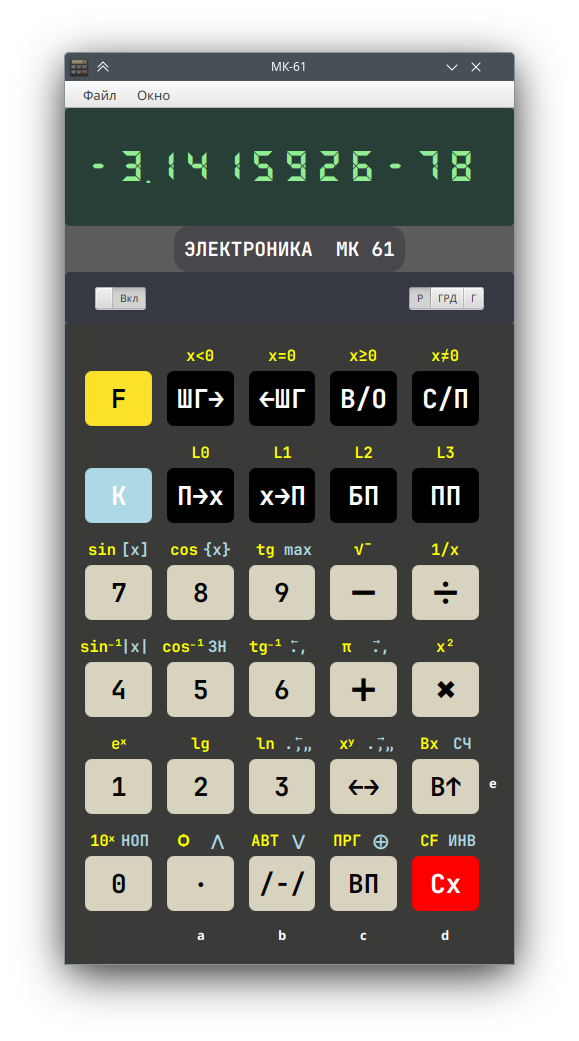
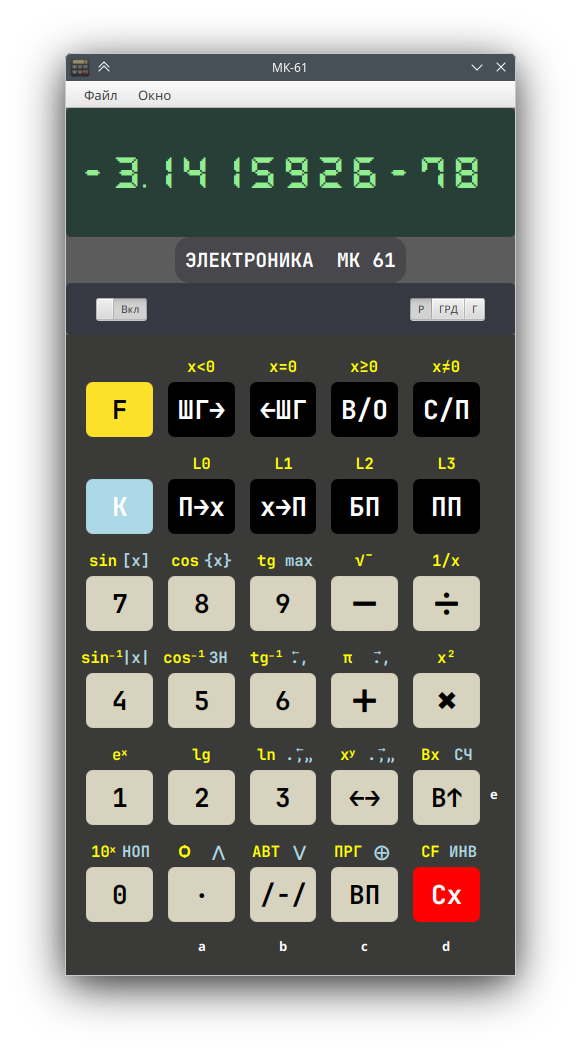
МК-61 25.12.1
* Fonts update

diff --git a/src/main/resources/main.css b/src/main/resources/main.css
@@ -86,16 +86,16 @@
 
 .lcd {
     -fx-font-weight: normal;
-    -fx-font-size: 30px;
+    -fx-font-size: 36;
     -fx-text-fill: lightgreen;
-    -fx-font-family: 'Neat LCD';
+    -fx-font-family: 'Pixel LCD7';
 }
 
 .dotLcd {
     -fx-font-weight: normal;
-    -fx-font-size: 15px;
+    -fx-font-size: 30;
     -fx-text-fill: lightgreen;
-    -fx-font-family: 'Neat LCD';
+    -fx-font-family: 'Pixel LCD7';
 }
 
 .switchPanel {

diff --git a/src/main/java/org/panteleyev/mk61/ui/Mk61Controller.java b/src/main/java/org/panteleyev/mk61/ui/Mk61Controller.java
@@ -1,7 +1,5 @@
-/*
- Copyright © 2025 Petr Panteleyev
- SPDX-License-Identifier: GPL-3.0-only
- */
+// Copyright © 2025 Petr Panteleyev
+// SPDX-License-Identifier: GPL-3.0-only
 package org.panteleyev.mk61.ui;
 
 import javafx.animation.AnimationTimer;
@@ -76,14 +74,18 @@ public class Mk61Controller extends BaseController {
     private final ToggleButton onButton = new ToggleButton("Вкл");
 
     private final Label[] digitCells = new Label[]{
-            new Label("F"), new Label("F"), new Label("F"), new Label("F"),
-            new Label("F"), new Label("F"), new Label("F"), new Label("F"),
-            new Label("F"), new Label("F"), new Label("F"), new Label("F")
+            new Label(" "), new Label(" "), new Label(" "), new Label(" "),
+            new Label(" "), new Label(" "), new Label(" "), new Label(" "),
+            new Label(" "), new Label(" "), new Label(" "), new Label(" ")
     };
     private final Label[] dotCells = new Label[]{
             new Label(" "), new Label(" "), new Label(" "), new Label(" "),
             new Label(" "), new Label(" "), new Label(" "), new Label(" "),
             new Label(" "), new Label(" "), new Label(" "), new Label(" ")
+    };
+
+    private final String[] LCD_MAP = new String[] {
+            "0", "1", "2", "3", "4", "5", "6", "7", "8", "9", "-", "L", "C", "Г", "E", " "
     };
 
     private final StackAndMemoryController stackAndMemoryController = new StackAndMemoryController();
@@ -149,11 +151,13 @@ public class Mk61Controller extends BaseController {
         pane.getStyleClass().add("lcdPanel");
         pane.setMouseTransparent(true);
 
-        for (var l : digitCells) {
-            l.getStyleClass().add("lcd");
+        for (var cell : digitCells) {
+            cell.getStyleClass().add("lcd");
+            HBox.setMargin(cell, new Insets(0, 0, 0, -7));
         }
-        for (var d : dotCells) {
-            d.getStyleClass().add("dotLcd");
+        for (var cell : dotCells) {
+            cell.getStyleClass().add("dotLcd");
+            HBox.setMargin(cell, new Insets(0, 0, 0, -6));
         }
         var cellsPane = new HBox(0);
         cellsPane.getChildren().addAll(
@@ -175,9 +179,6 @@ public class Mk61Controller extends BaseController {
                 digitCells[11], dotCells[11]
         );
         cellsPane.setAlignment(Pos.BOTTOM_CENTER);
-        for (var dc : digitCells) {
-            HBox.setMargin(dc, new Insets(0, 0, 0, -3));
-        }
 
         pane.setCenter(cellsPane);
         return pane;
@@ -337,7 +338,7 @@ public class Mk61Controller extends BaseController {
         var opacity = 1.0;
 
         for (int i = 0; i < 12; i++) {
-            digitCells[i].setText(Long.toString(ri & 0xF, 16).toUpperCase());
+            digitCells[i].setText(LCD_MAP[(int)(ri & 0xF)]);
             digitCells[i].setOpacity(opacity);
             dotCells[i].setText((dots & 1) == 1 ? "." : " ");
             dotCells[i].setOpacity(opacity);

diff --git a/src/main/java/org/panteleyev/mk61/Mk61Application.java b/src/main/java/org/panteleyev/mk61/Mk61Application.java
@@ -1,7 +1,5 @@
-/*
- Copyright © 2025 Petr Panteleyev
- SPDX-License-Identifier: GPL-3.0-only
- */
+// Copyright © 2025 Petr Panteleyev
+// SPDX-License-Identifier: GPL-3.0-only
 package org.panteleyev.mk61;
 
 import javafx.application.Application;
@@ -43,7 +41,7 @@ public class Mk61Application extends Application {
         settings().load();
 
         Font.loadFont(
-                Mk61Application.class.getResource("/fonts/neat-lcd.ttf").toString(),
+                Mk61Application.class.getResource("/fonts/Pixel-LCD-7.ttf").toString(),
                 14
         );
         Font.loadFont(

diff --git a/3rd-party.md b/3rd-party.md
@@ -1,0 +1,4 @@
+# Fonts
+
+- [JetBrains Mono](https://www.jetbrains.com/lp/mono/)
+- [Pixel LCD7](https://fonts-online.ru/fonts/pixel-lcd7)